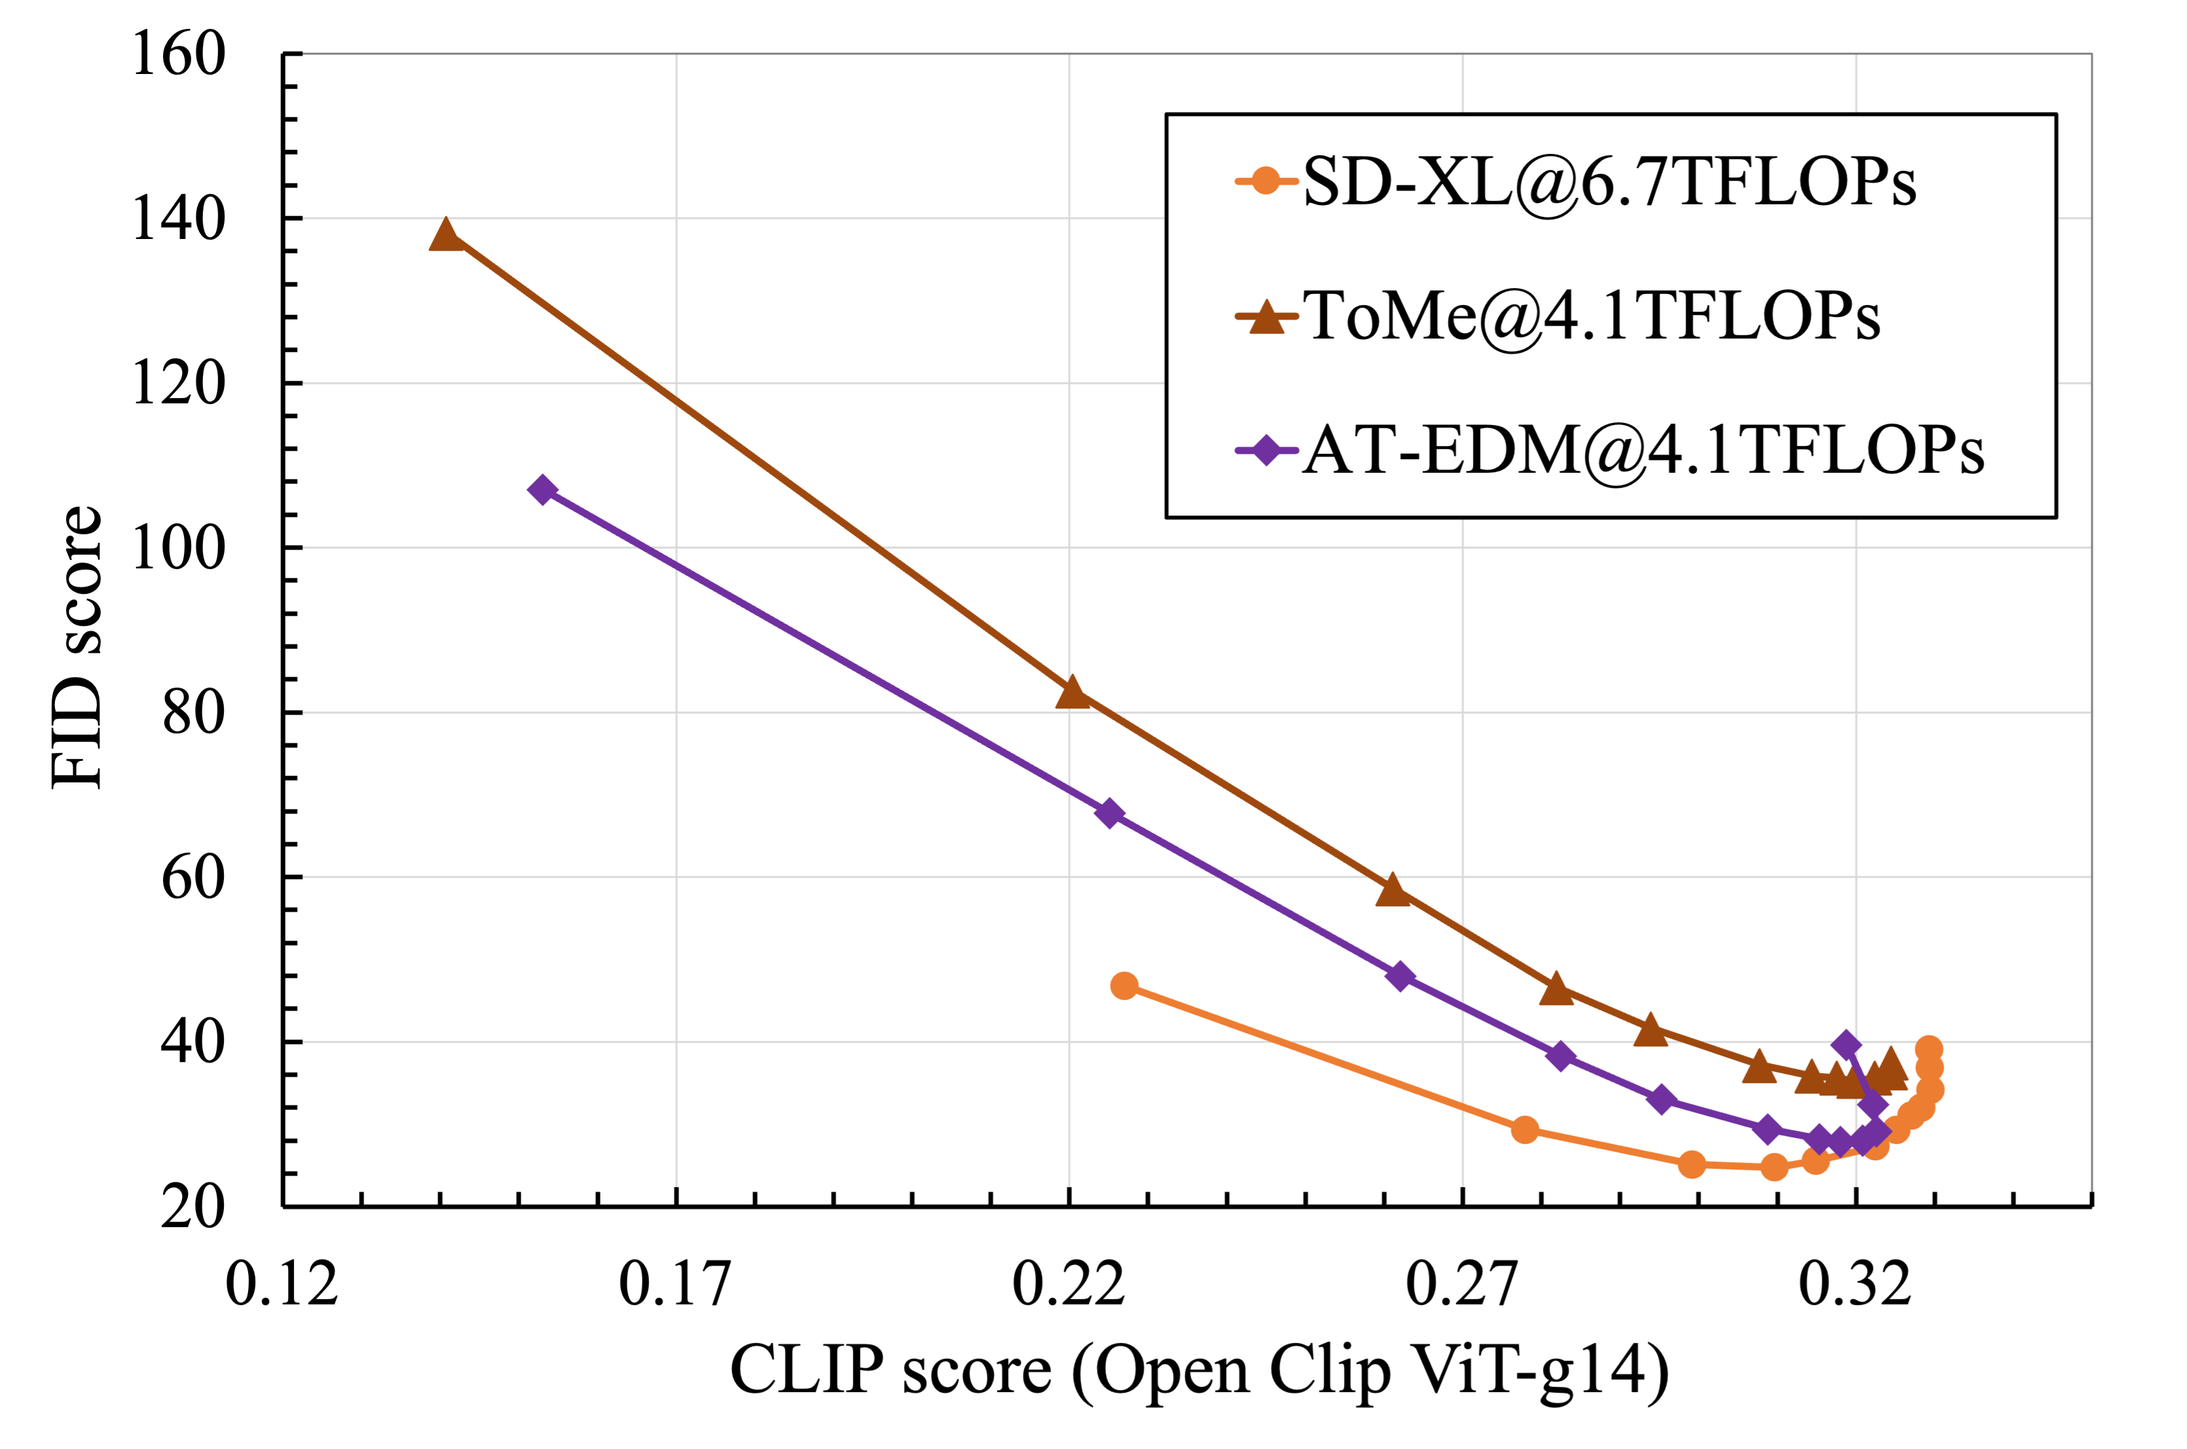
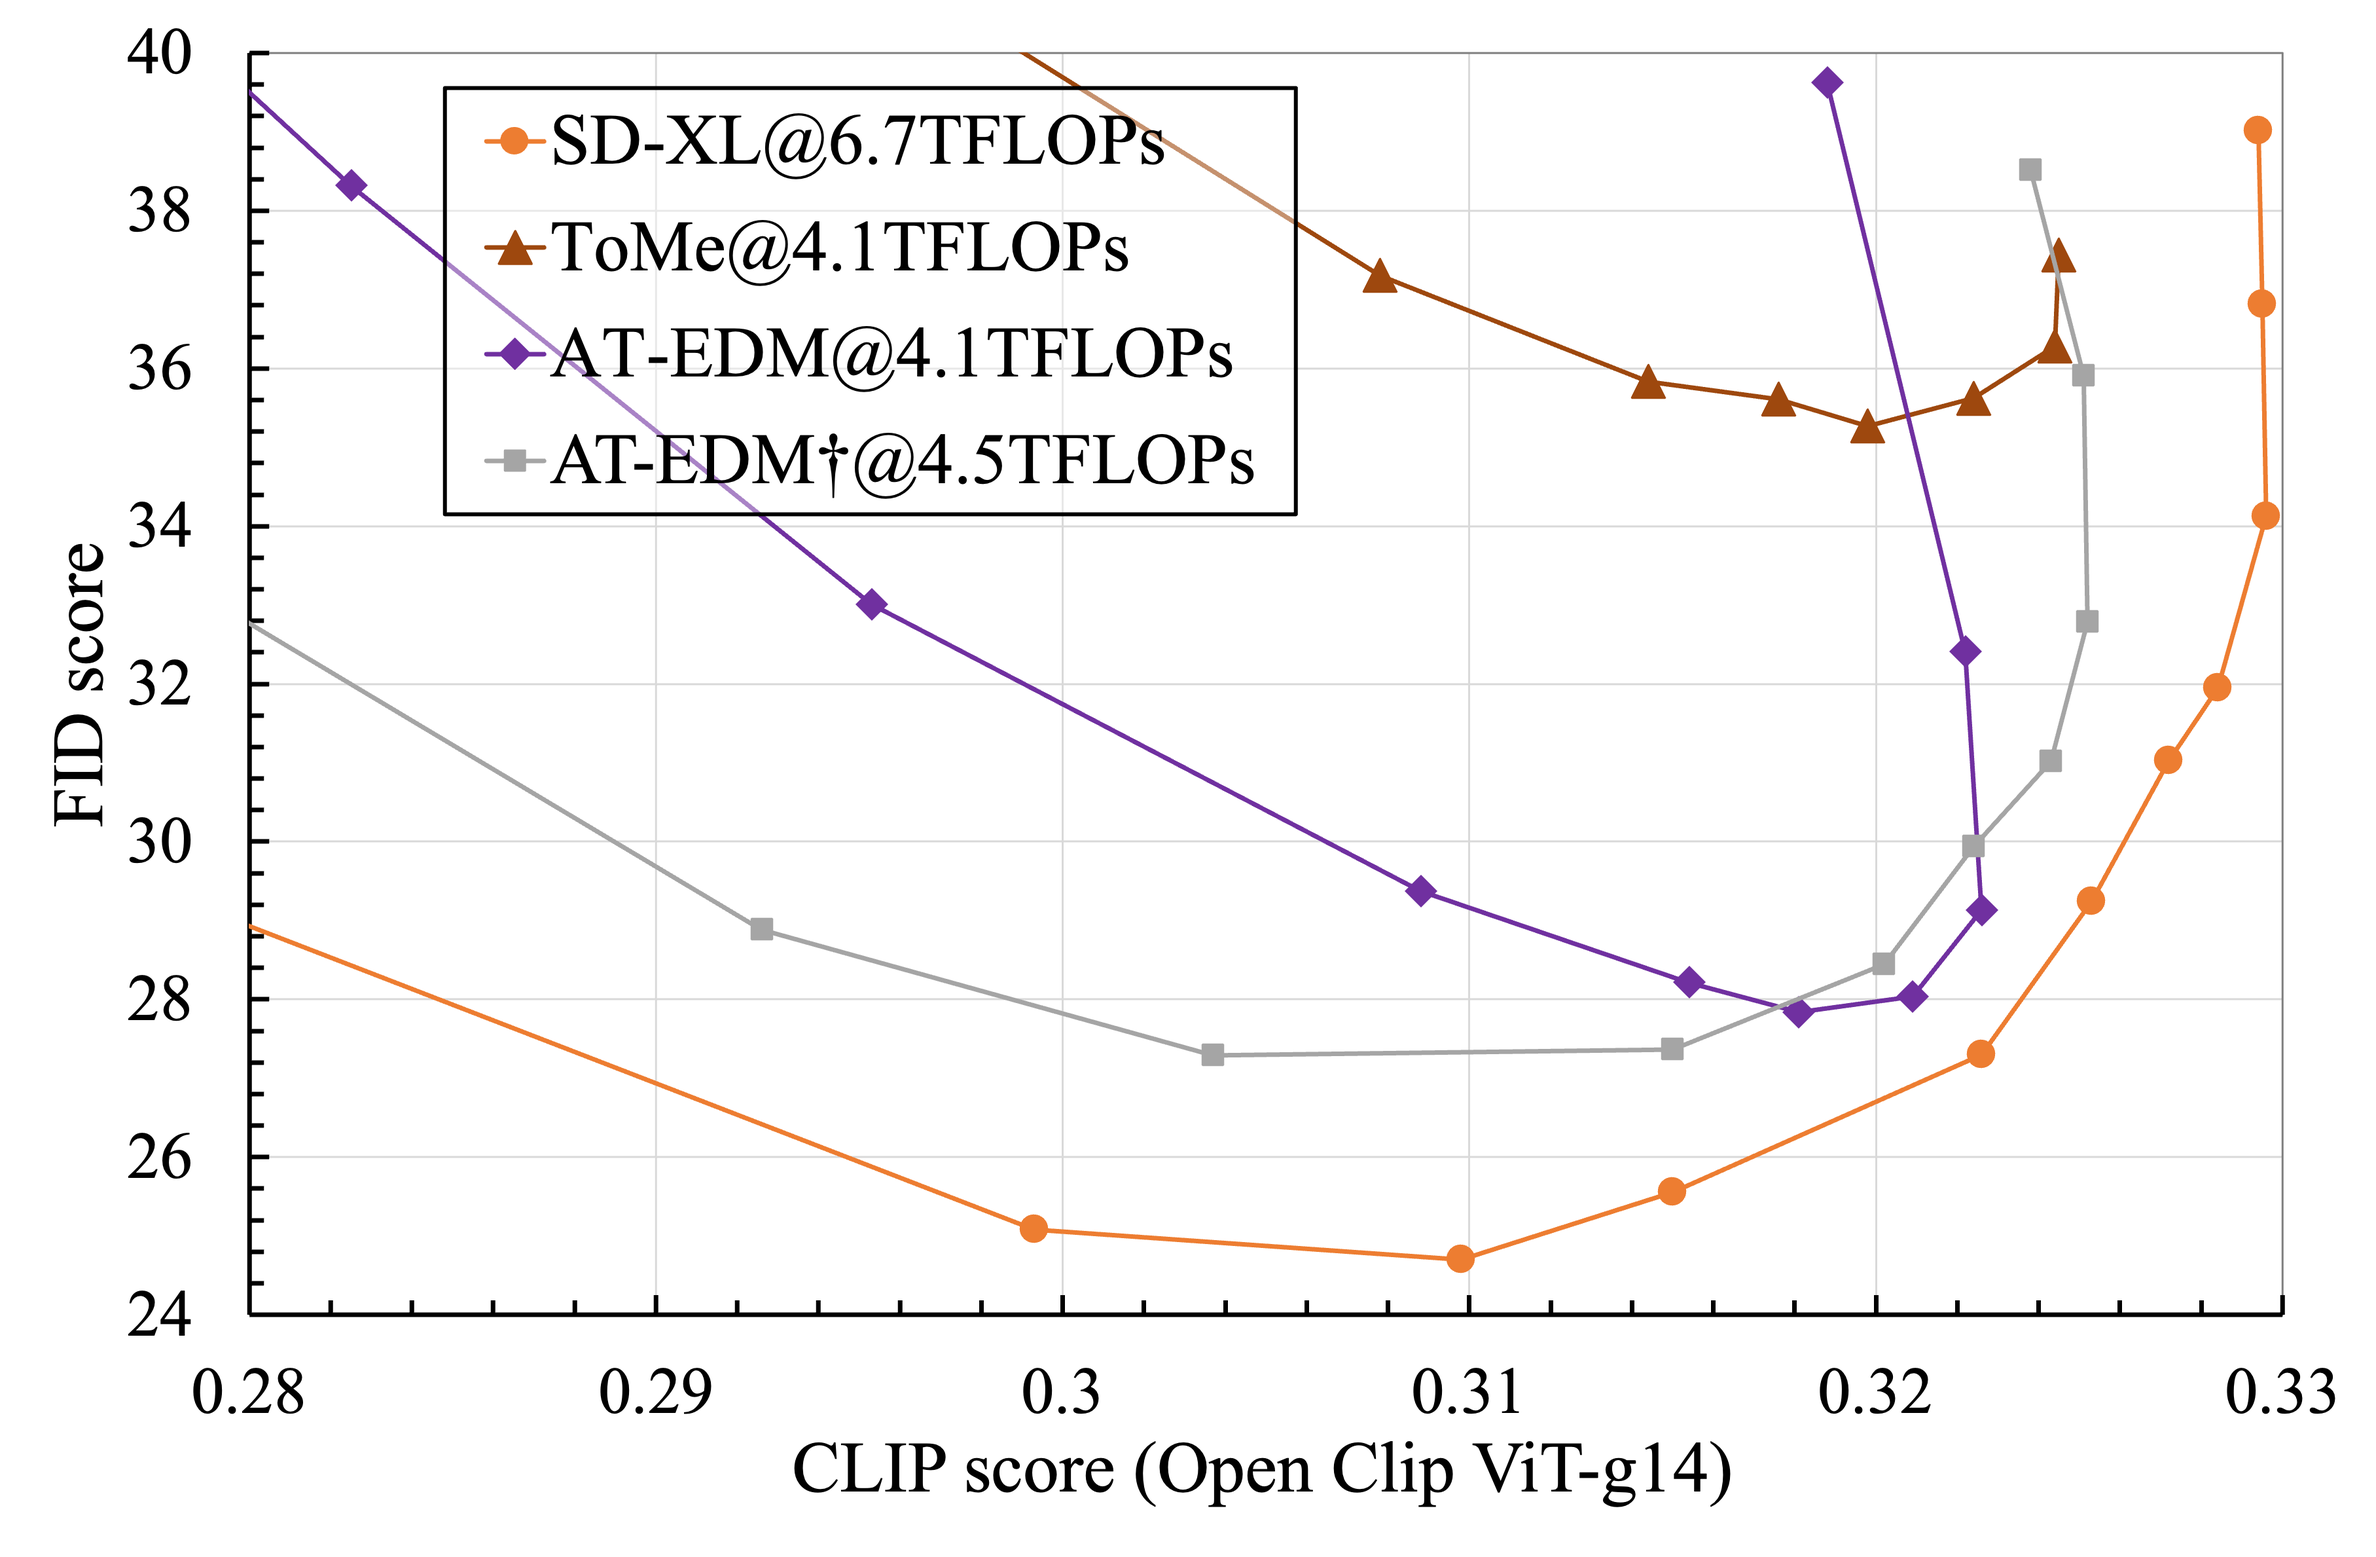
update fid-clip curves

diff --git a/index.html b/index.html
@@ -341,7 +341,8 @@
                alt="FID-CLIP curves." 
                class="fid-clip-image">
           <p>
-            The used CFG scales are [1.0, 1.5, 2.0, 2.5, 3.0, 4.0, 5.0, 6.0, 7.0, 9.0, 12.0, 15.0].
+            The used CFG scales are [1.0, 1.5, 2.0, 2.5, 3.0, 4.0, 5.0, 6.0, 7.0, 9.0, 12.0, 15.0]. This figure 
+            is zoomed in to the bottom-right corner to show the comparison between the best trade-off points.
           </p>
         </div>
       </div>
